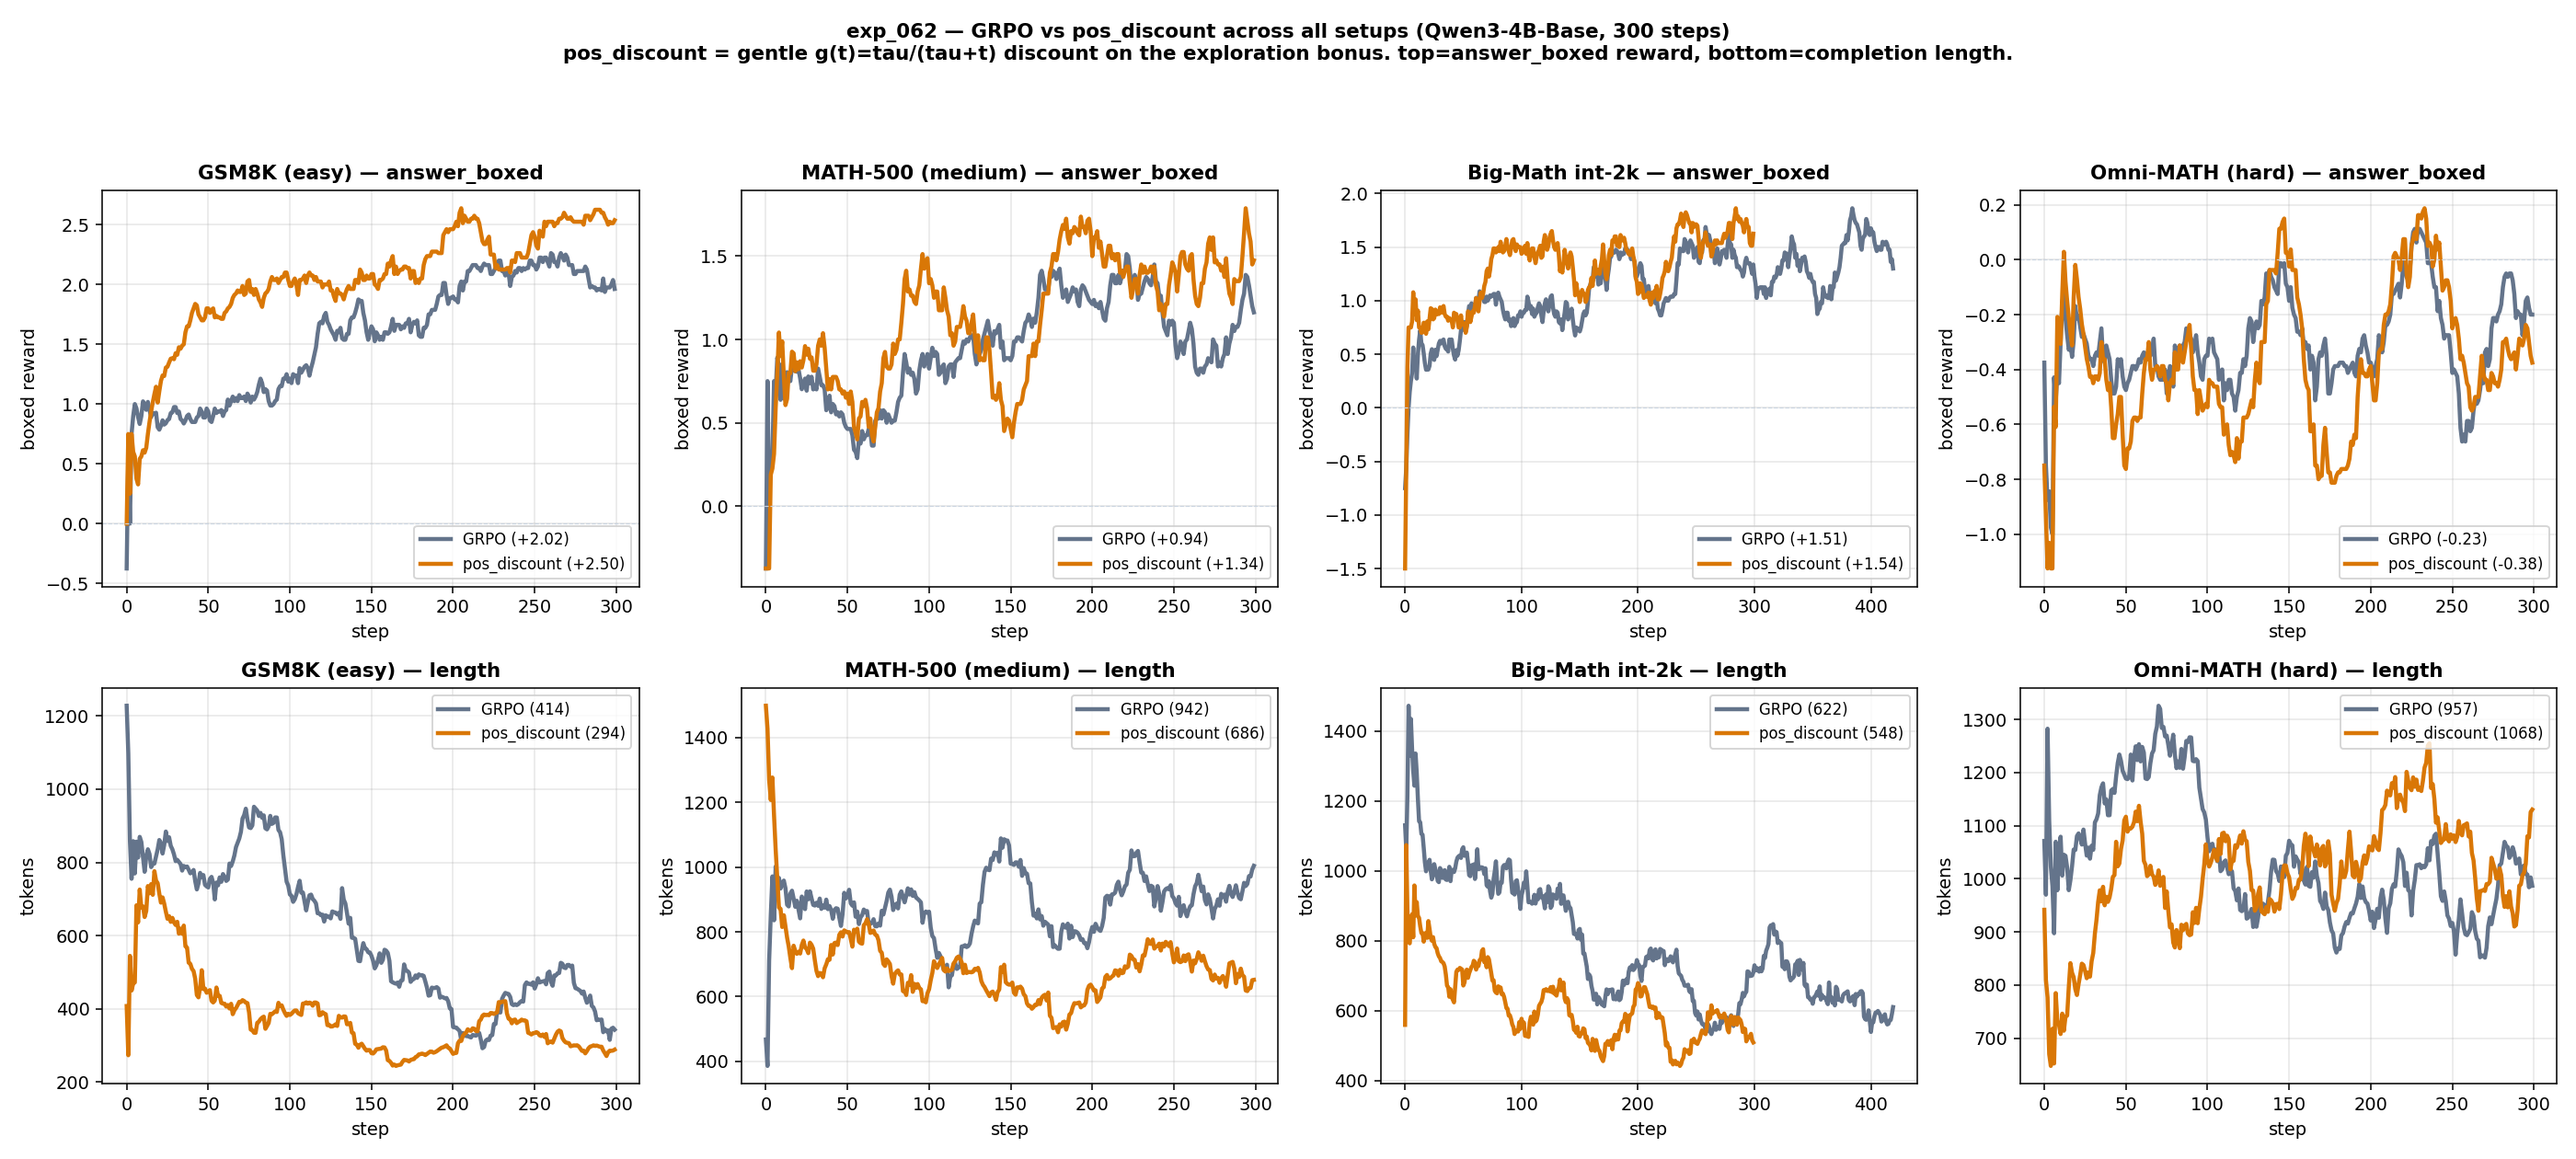
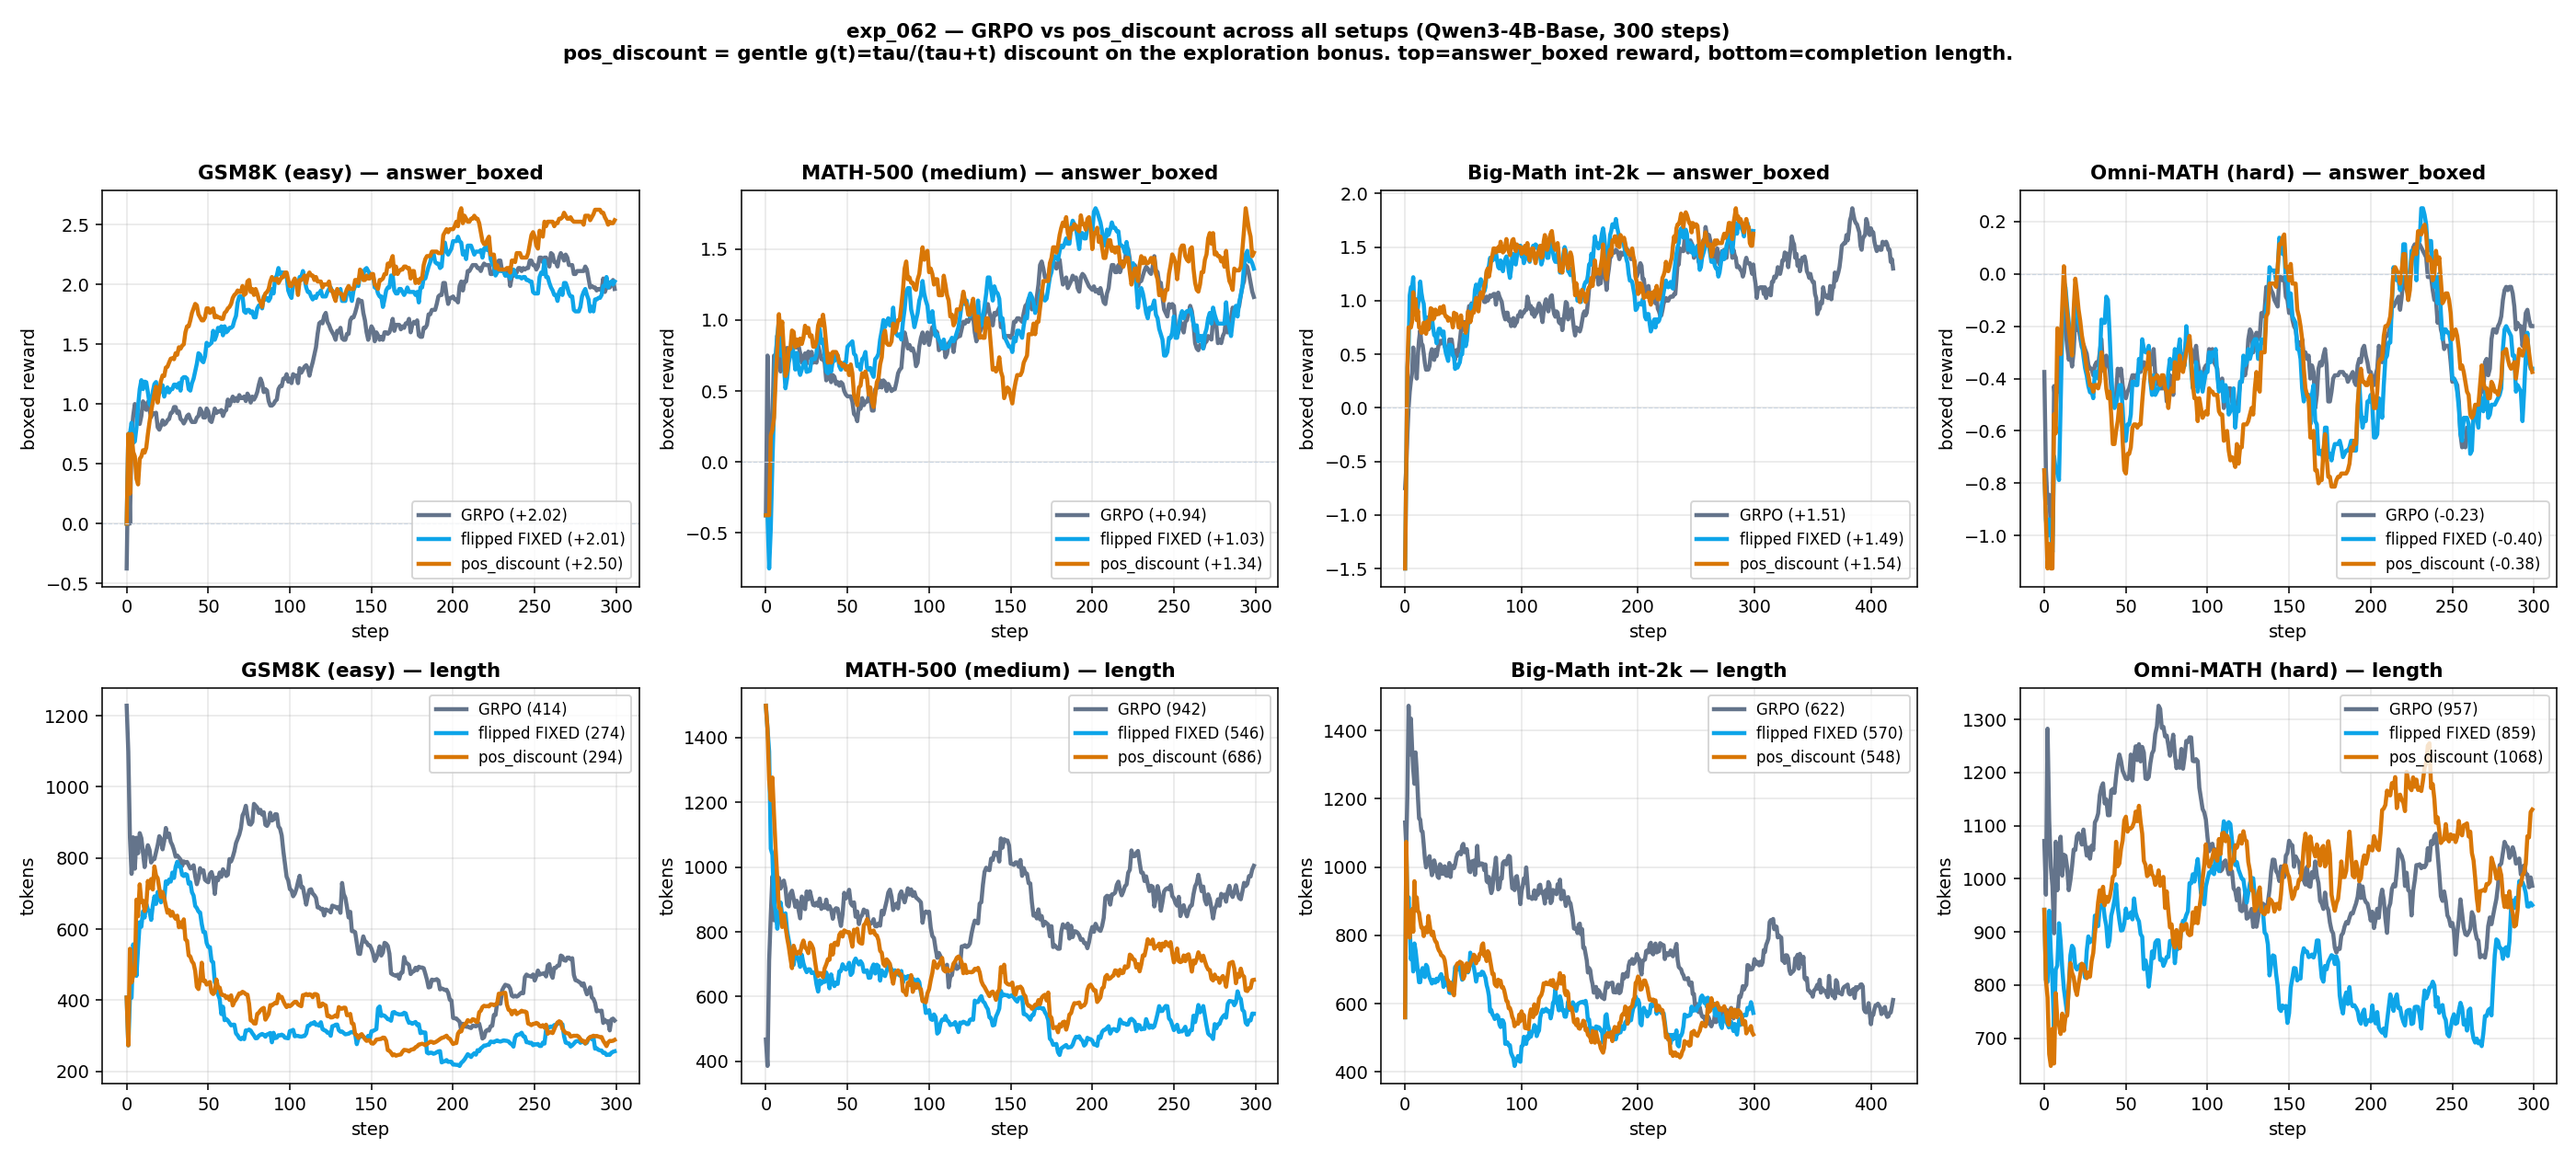
exp_062: add gtpo_ema_flipped(FIXED) to the GRPO vs pos_discount 4-setup plot
3 curves now (GRPO / flipped FIXED / pos_discount) x 4 datasets x boxed/length.
pos_discount >= both on gsm8k/math500/big-math (boxed) and shortest-or-near; on
omnimath FIXED -0.40 < pos_discount -0.38 < GRPO -0.23.

diff --git a/experiments/exp_062_qwen3base_3datasets_novel_candidates/plot_grpo_vs_posdiscount.py b/experiments/exp_062_qwen3base_3datasets_novel_candidates/plot_grpo_vs_posdiscount.py
@@ -11,7 +11,9 @@ import matplotlib.pyplot as plt
 HERE = os.path.dirname(__file__)
 DATASETS = [("gsm8k", "GSM8K (easy)"), ("math500", "MATH-500 (medium)"),
             ("bigmath", "Big-Math int-2k"), ("omnimath", "Omni-MATH (hard)")]
-PAIR = [("grpo", "GRPO", "#64748b"), ("pos_discount", "pos_discount", "#d97706")]
+PAIR = [("grpo", "GRPO", "#64748b"),
+        ("gtpo_ema_flipped_fixed", "flipped FIXED", "#0ea5e9"),
+        ("pos_discount", "pos_discount", "#d97706")]
 
 
 def rolling(xs, w=30):
